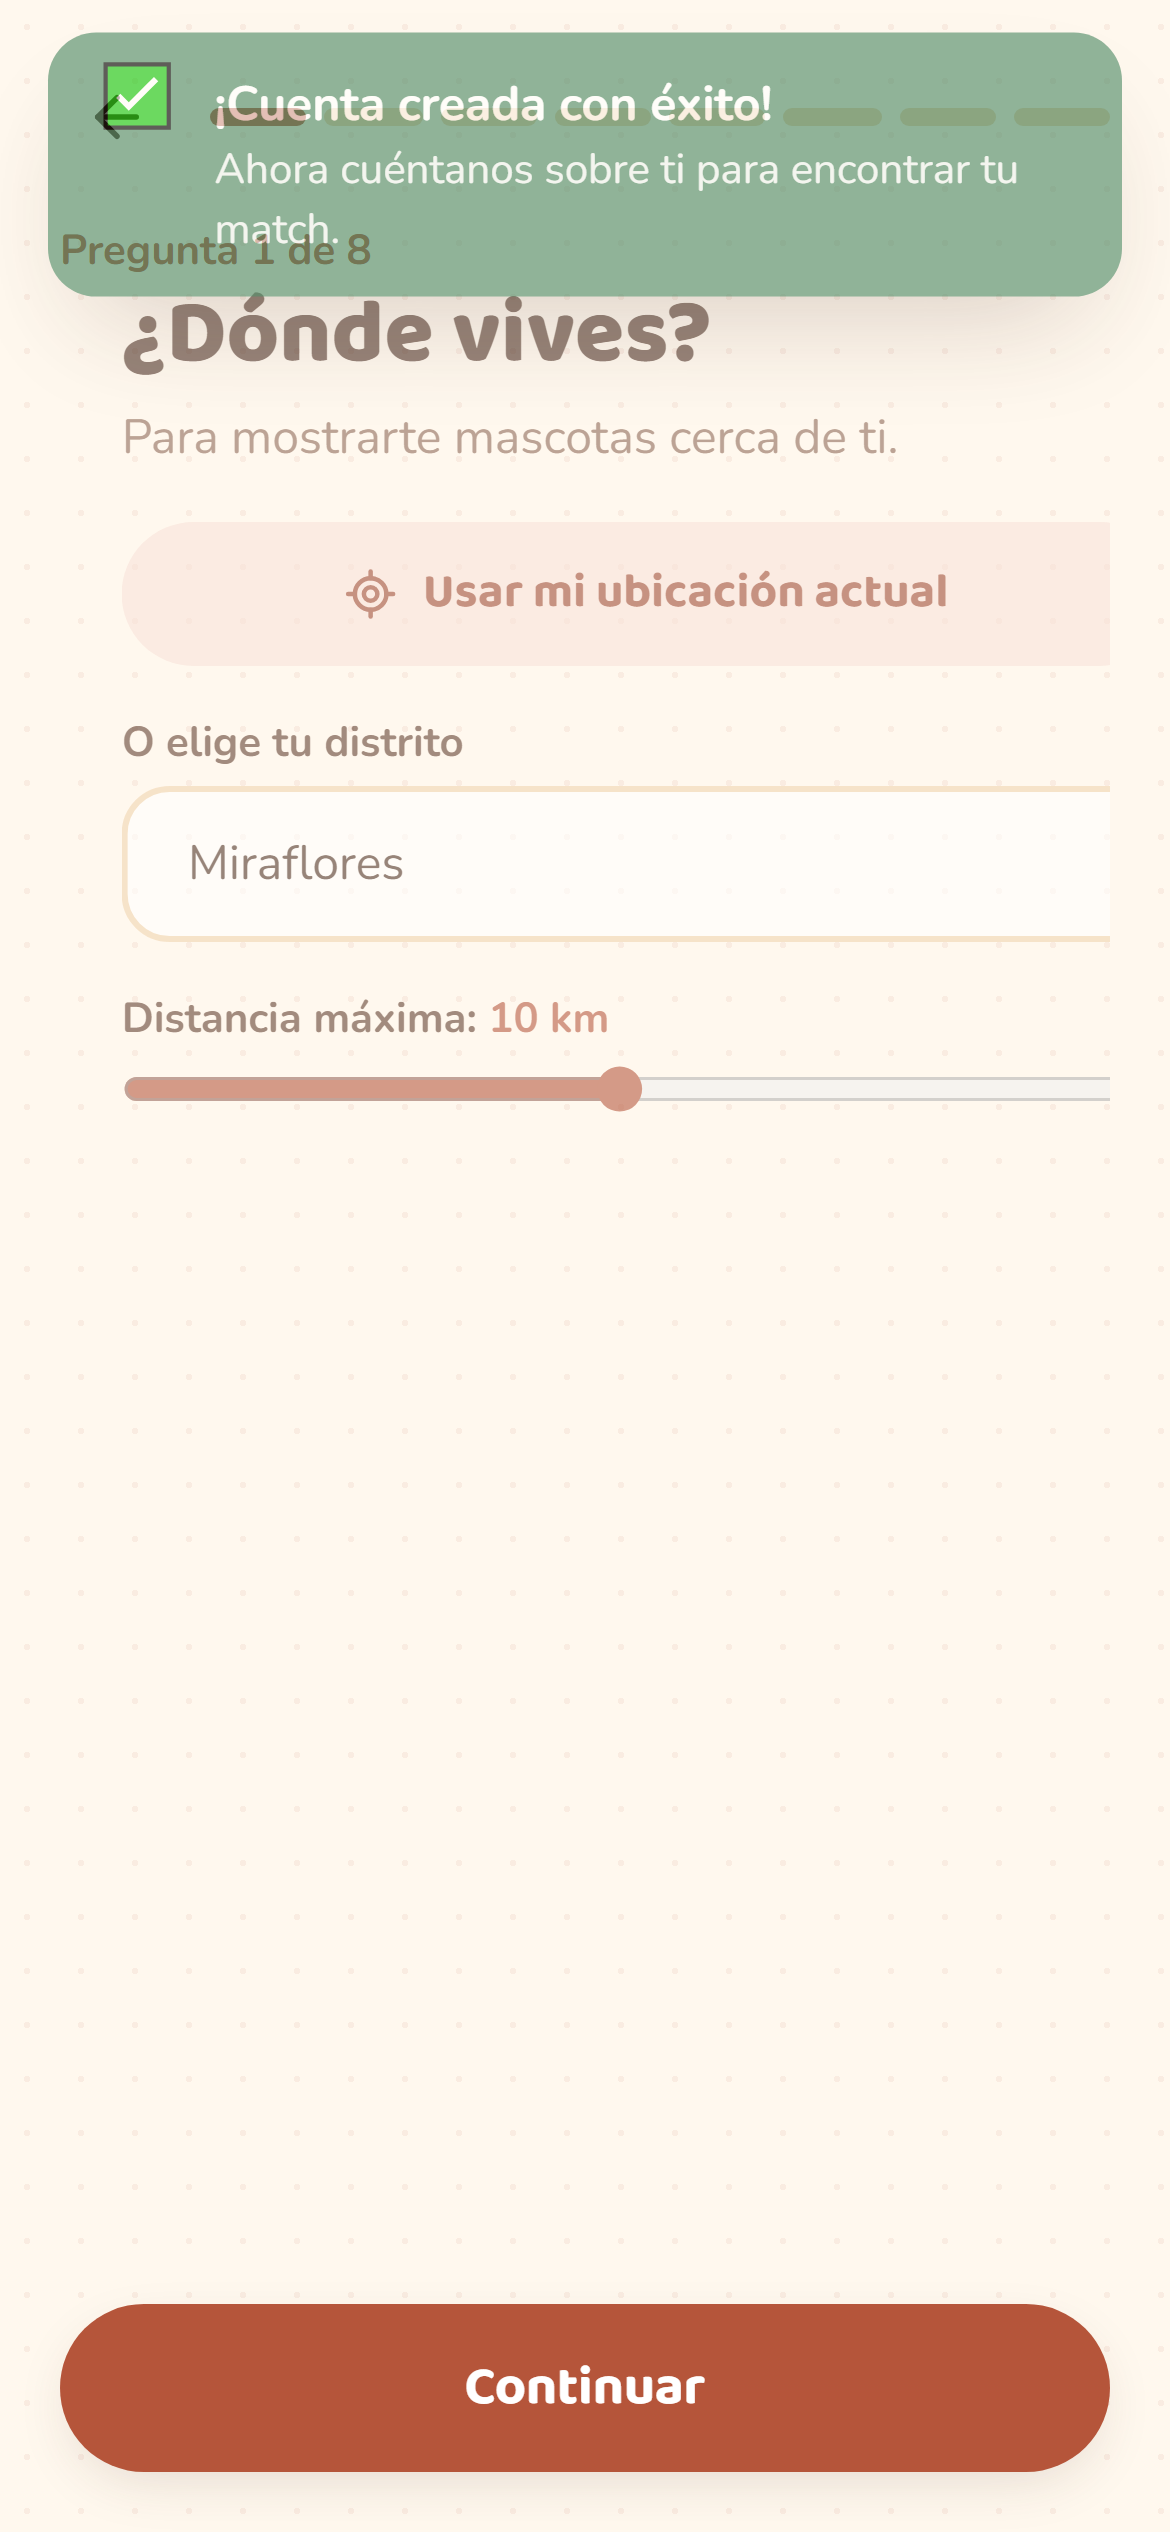
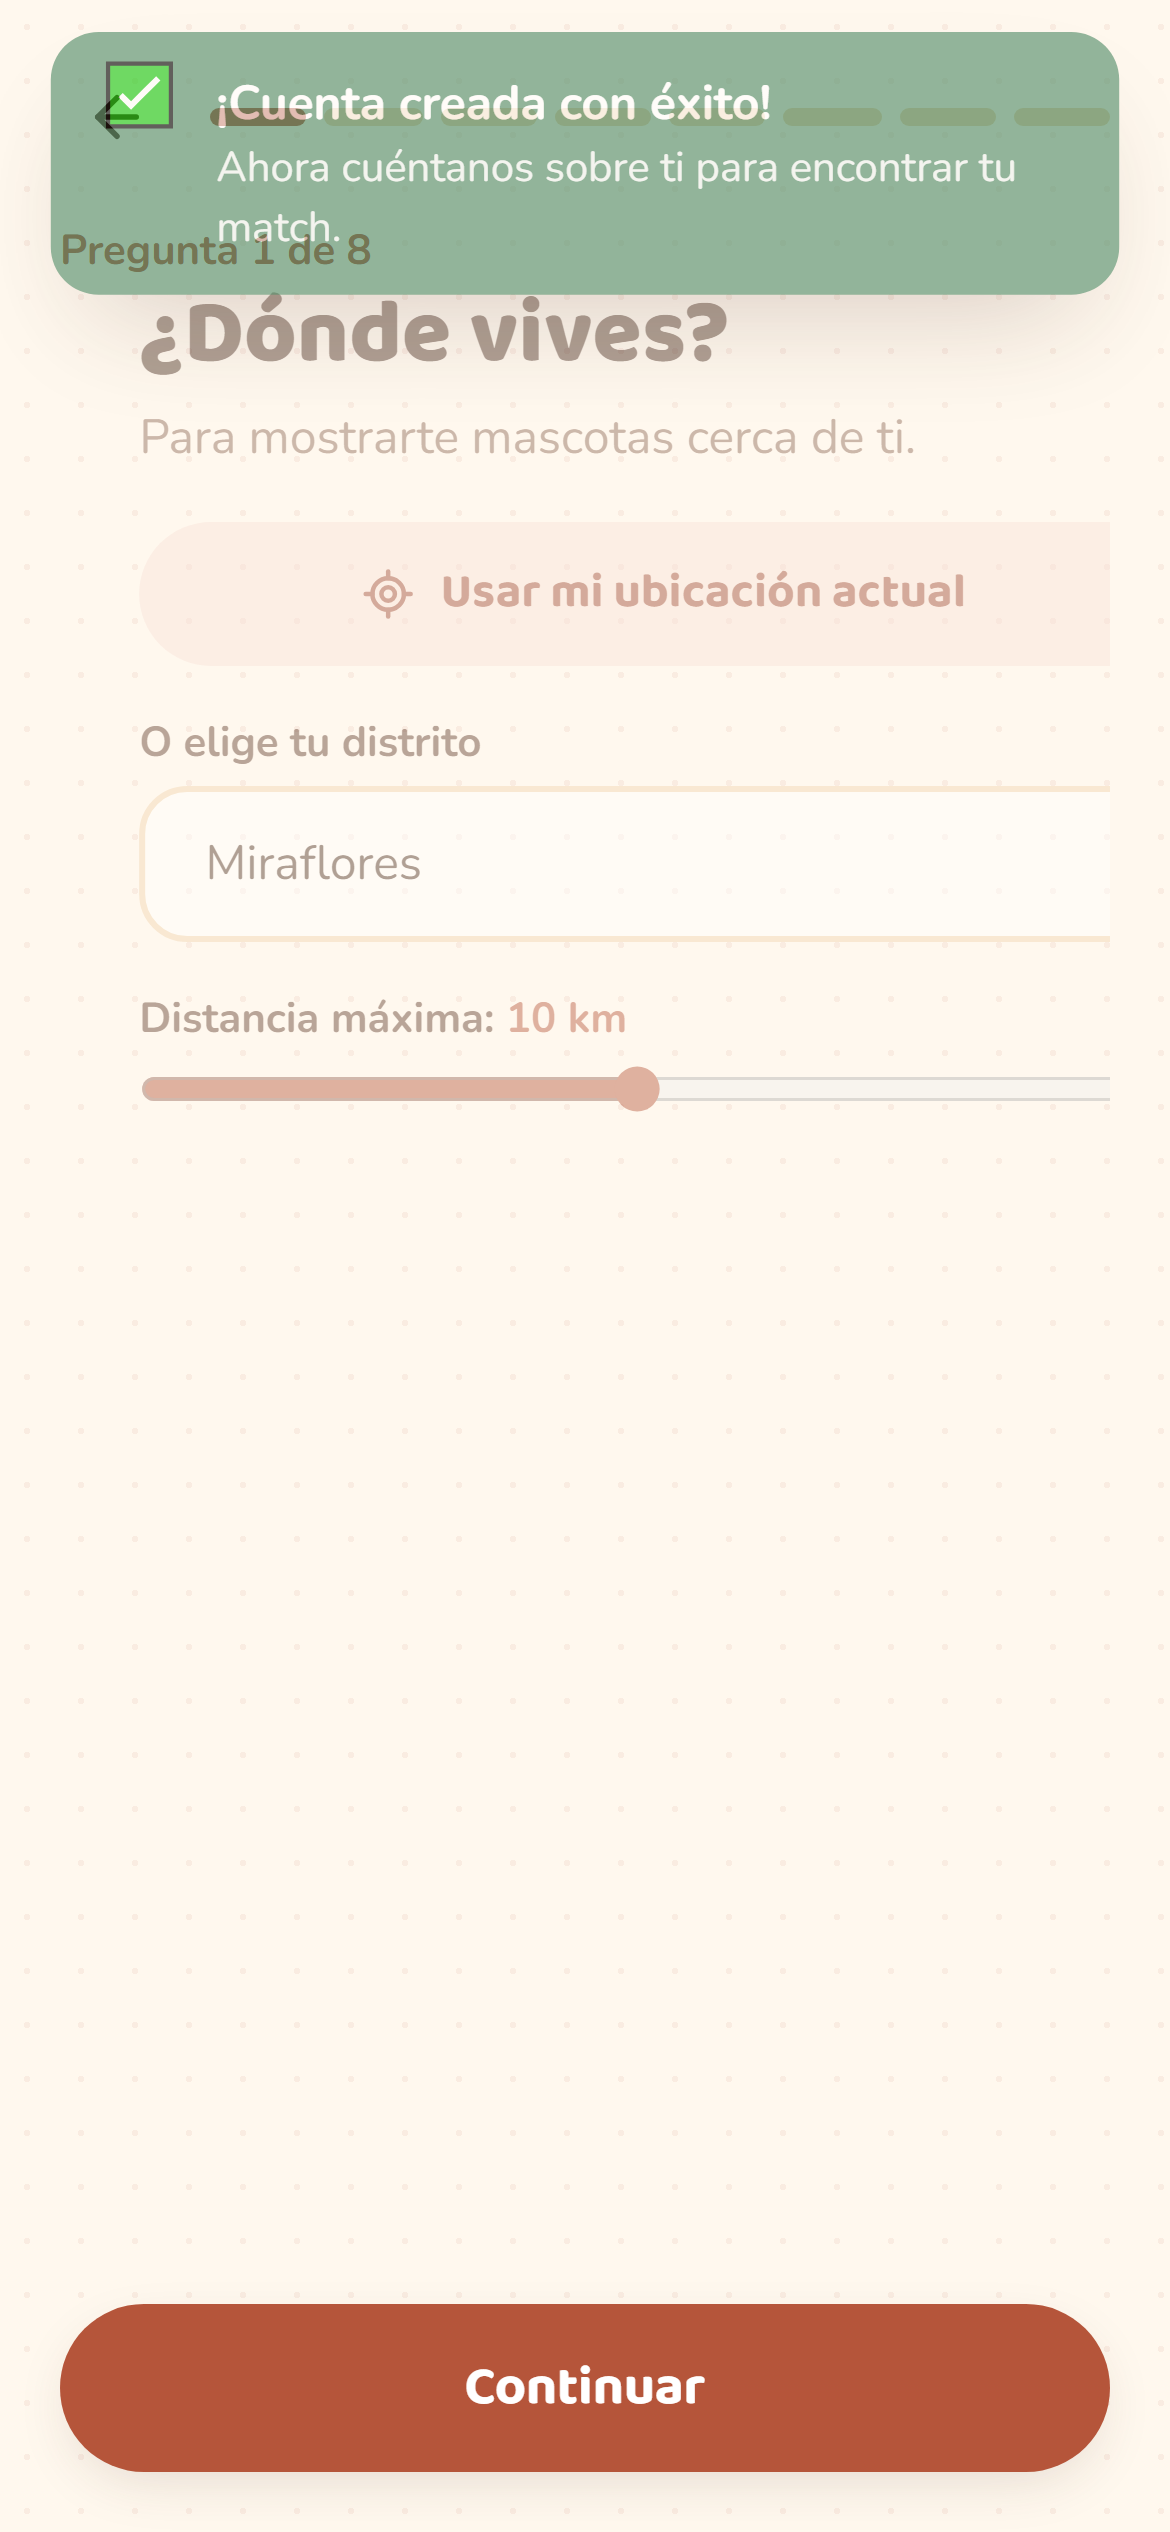
HU-01: evidencias automatizadas (capturas por criterio)

diff --git a/Codigo_Repositorio/kuyaypet-web/tests/evidencias/shared.ts b/Codigo_Repositorio/kuyaypet-web/tests/evidencias/shared.ts
@@ -25,3 +25,21 @@ export async function freshStart(page: Page) {
 export async function readDb(page: Page): Promise<any> {
   return page.evaluate(() => JSON.parse(localStorage.getItem('kuyaypet-db') || '{}').state);
 }
+
+export const TINY_PNG = Buffer.from(
[1 lines of base64/hex data omitted]
+  'base64',
+);
+
+export async function logout(page: Page) {
+  await page.goto('./#/perfil');
+  await page.getByRole('button', { name: 'Cerrar sesión' }).click();
+  await page.getByRole('alertdialog').getByRole('button', { name: 'Cerrar sesión' }).click();
+  await page.waitForURL(/#\/login/);
+}
+
+export async function login(page: Page, email: string, password = 'kuyay2026') {
+  await page.getByLabel('Correo electrónico').fill(email);
+  await page.locator('#password').fill(password);
+  await page.getByRole('button', { name: 'Entrar' }).click();
+}
